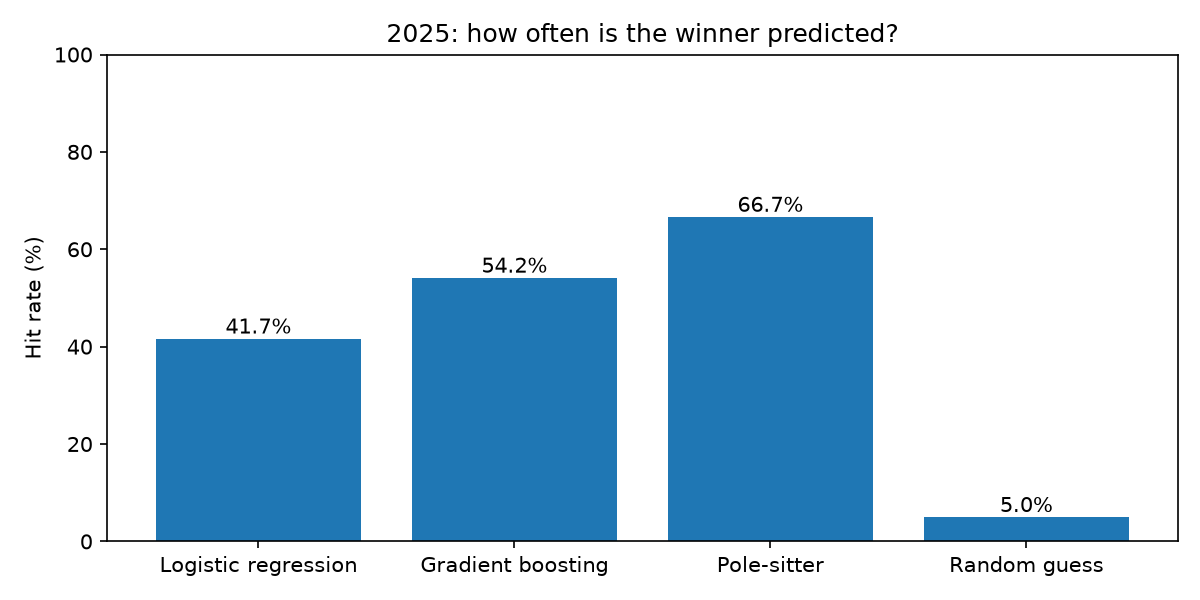
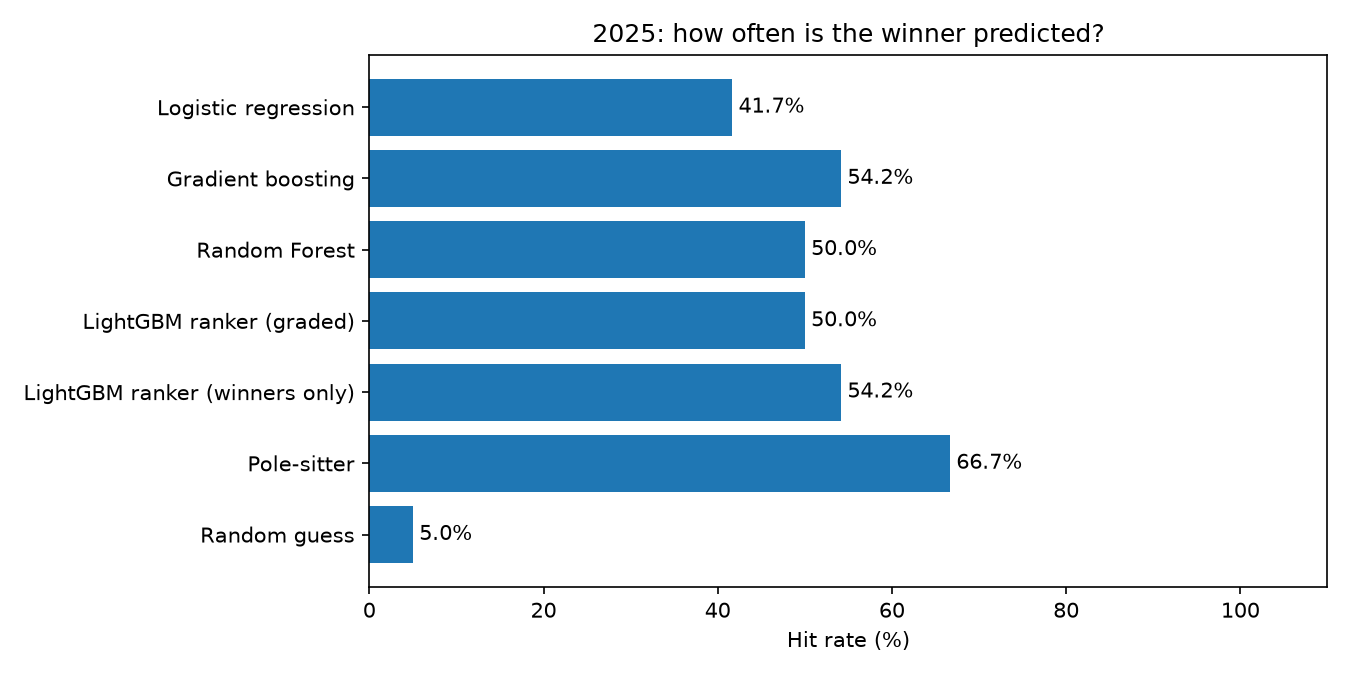
Enhance model comparison by adding Random Forest and LightGBM ranker; update evaluation metrics and plots

diff --git a/compare_models.py b/compare_models.py
@@ -1,41 +1,67 @@
 import pandas as pd
-from sklearn.ensemble import GradientBoostingClassifier
+from sklearn.ensemble import GradientBoostingClassifier, RandomForestClassifier
 from sklearn.impute import SimpleImputer
 from sklearn.linear_model import LogisticRegression
 from sklearn.pipeline import Pipeline
 from sklearn.preprocessing import StandardScaler
 
 from train_predictor import FEATURES, normalize_within_race
+from ranker import fit_ranker, predict_ranker
 
 DATA_PATH = "data/f1_features.csv"
 TEST_SEASONS = [2023, 2024, 2025]
 
+RANKER_PARAMS=dict(
+    n_estimators=100, learning_rate=0.05, num_leaves=4, max_depth=3,
+    min_child_samples=20, subsample=0.8, subsample_freq=1,
+    colsample_bytree=0.8, reg_lambda=1.0
+)
+
+def sklearn_predictor(pipeline):
+    def run(train, test):
+        pipeline.fit(train[FEATURES], train["winner"])
+        positive = list(pipeline.classes_).index(1)
+        raw = pipeline.predict_proba(test[FEATURES])[:, positive]
+        return normalize_within_race(test, raw)
+    return run
+
+def ranker_predictor(params, graded):
+    def run(train, test):
+        ranker = fit_ranker(train, params, graded=graded)
+        return predict_ranker(ranker, test)
+    return run
 
 def make_models():
     return {
-        "Logistic regression": Pipeline([
+        "Logistic regression": sklearn_predictor(Pipeline([
             ("imputer", SimpleImputer(strategy="median")),
             ("scaler", StandardScaler()),
             ("model", LogisticRegression(max_iter=1000)),
-        ]),
-        "Gradient boosting": Pipeline([
+        ])),
+        "Gradient boosting": sklearn_predictor(Pipeline([
             ("imputer", SimpleImputer(strategy="median")),
             ("model", GradientBoostingClassifier(
                 n_estimators=100, learning_rate=0.05,
                 max_depth=2, random_state=42,
             )),
-        ]),
+        ])),
+        "Random Forest":sklearn_predictor(Pipeline([
+            ("imputer", SimpleImputer(strategy="median")),
+            ("model", RandomForestClassifier(
+                n_estimators=100, max_depth=4, min_samples_leaf=5
+            ))
+        ])),
+        "LightGBM ranker (graded)": ranker_predictor(RANKER_PARAMS, graded=True),
+        "LightGBM ranker (winners only)": ranker_predictor(RANKER_PARAMS, graded=False)
     }
 
 
-def evaluate(model, train, test):
-    model.fit(train[FEATURES], train["winner"])
-    positive = list(model.classes_).index(1)
-    raw = model.predict_proba(test[FEATURES])[:, positive]
-    scored = normalize_within_race(test, raw)
+def evaluate(run, train, test):
+    
+    scored = run(train, test)
 
     top_picks = (
-        scored.sort_values(["race_id", "win_probability"], ascending=[True, False])
+        scored.sort_values(["race_id", "win_probability", "grid_position"], ascending=[True, False, True])
         .drop_duplicates("race_id", keep="first")
     )
     winners = scored[scored["winner"] == 1]

diff --git a/plots.py b/plots.py
@@ -25,11 +25,12 @@ def plot_hit_rates(scored_by_model, test):
     rates["Pole-sitter"] = test[test["grid_position"] == 1]["winner"].mean()
     rates["Random guess"] = (1 / test.groupby("race_id").size()).mean()
 
-    fig, ax = plt.subplots(figsize=(8,4))
-    bars = ax.bar(rates.keys(), [v * 100 for v in rates.values()])
-    ax.bar_label(bars, fmt="%.1f%%")
-    ax.set_ylabel("Hit rate (%)")
-    ax.set_ylim(0,100)
+    fig, ax = plt.subplots(figsize=(9, 4.5))
+    bars = ax.barh(list(rates.keys()), [v * 100 for v in rates.values()])
+    ax.bar_label(bars, fmt="%.1f%%", padding=3)
+    ax.set_xlabel("Hit rate (%)")
+    ax.set_xlim(0, 110)
+    ax.invert_yaxis()
     ax.set_title(f"{TEST_SEASON}: how often is the winner predicted?")
     fig.tight_layout()
     fig.savefig(PLOT_DIR / "hit_rates.png", dpi=150)
@@ -80,7 +81,7 @@ def main():
     train = data[data["season"] < TEST_SEASON]
     test = data[data["season"] == TEST_SEASON]
     scored_by_model = {
-        name: predict(model, train, test) for name, model in make_models().items()
+        name: run(train, test) for name, run in make_models().items()
     }
     plot_hit_rates(scored_by_model, test)
     plot_winner_probability(scored_by_model)

diff --git a/ranker.py b/ranker.py
@@ -1,0 +1,24 @@
+import numpy as np
+from lightgbm import LGBMRanker
+
+from train_predictor import FEATURES
+
+def graded_label(frame):
+    return (4 - frame["finish_position"]).clip(lower=0)
+
+def fit_ranker(train, params, graded = True):
+    train = train.sort_values(["date", "race_id"]).copy()
+    labels = graded_label(train) if graded else train["winner"]
+    group_sizes = train.groupby("race_id", sort=False).size().to_numpy()
+
+    ranker = LGBMRanker(objective="lambdarank", random_state=42, verbose=1, **params)
+    ranker.fit(train[FEATURES], labels, group=group_sizes)
+    return ranker
+
+def predict_ranker(ranker,test):
+    scored= test.copy()
+    scored["score"] = ranker.predict(test[FEATURES])
+    best = scored.groupby("race_id")["score"].transform("max")
+    exp = np.exp(scored["score"] - best)
+    scored["win_probability"] = exp / exp.groupby(scored["race_id"]).transform("sum")
+    return scored
